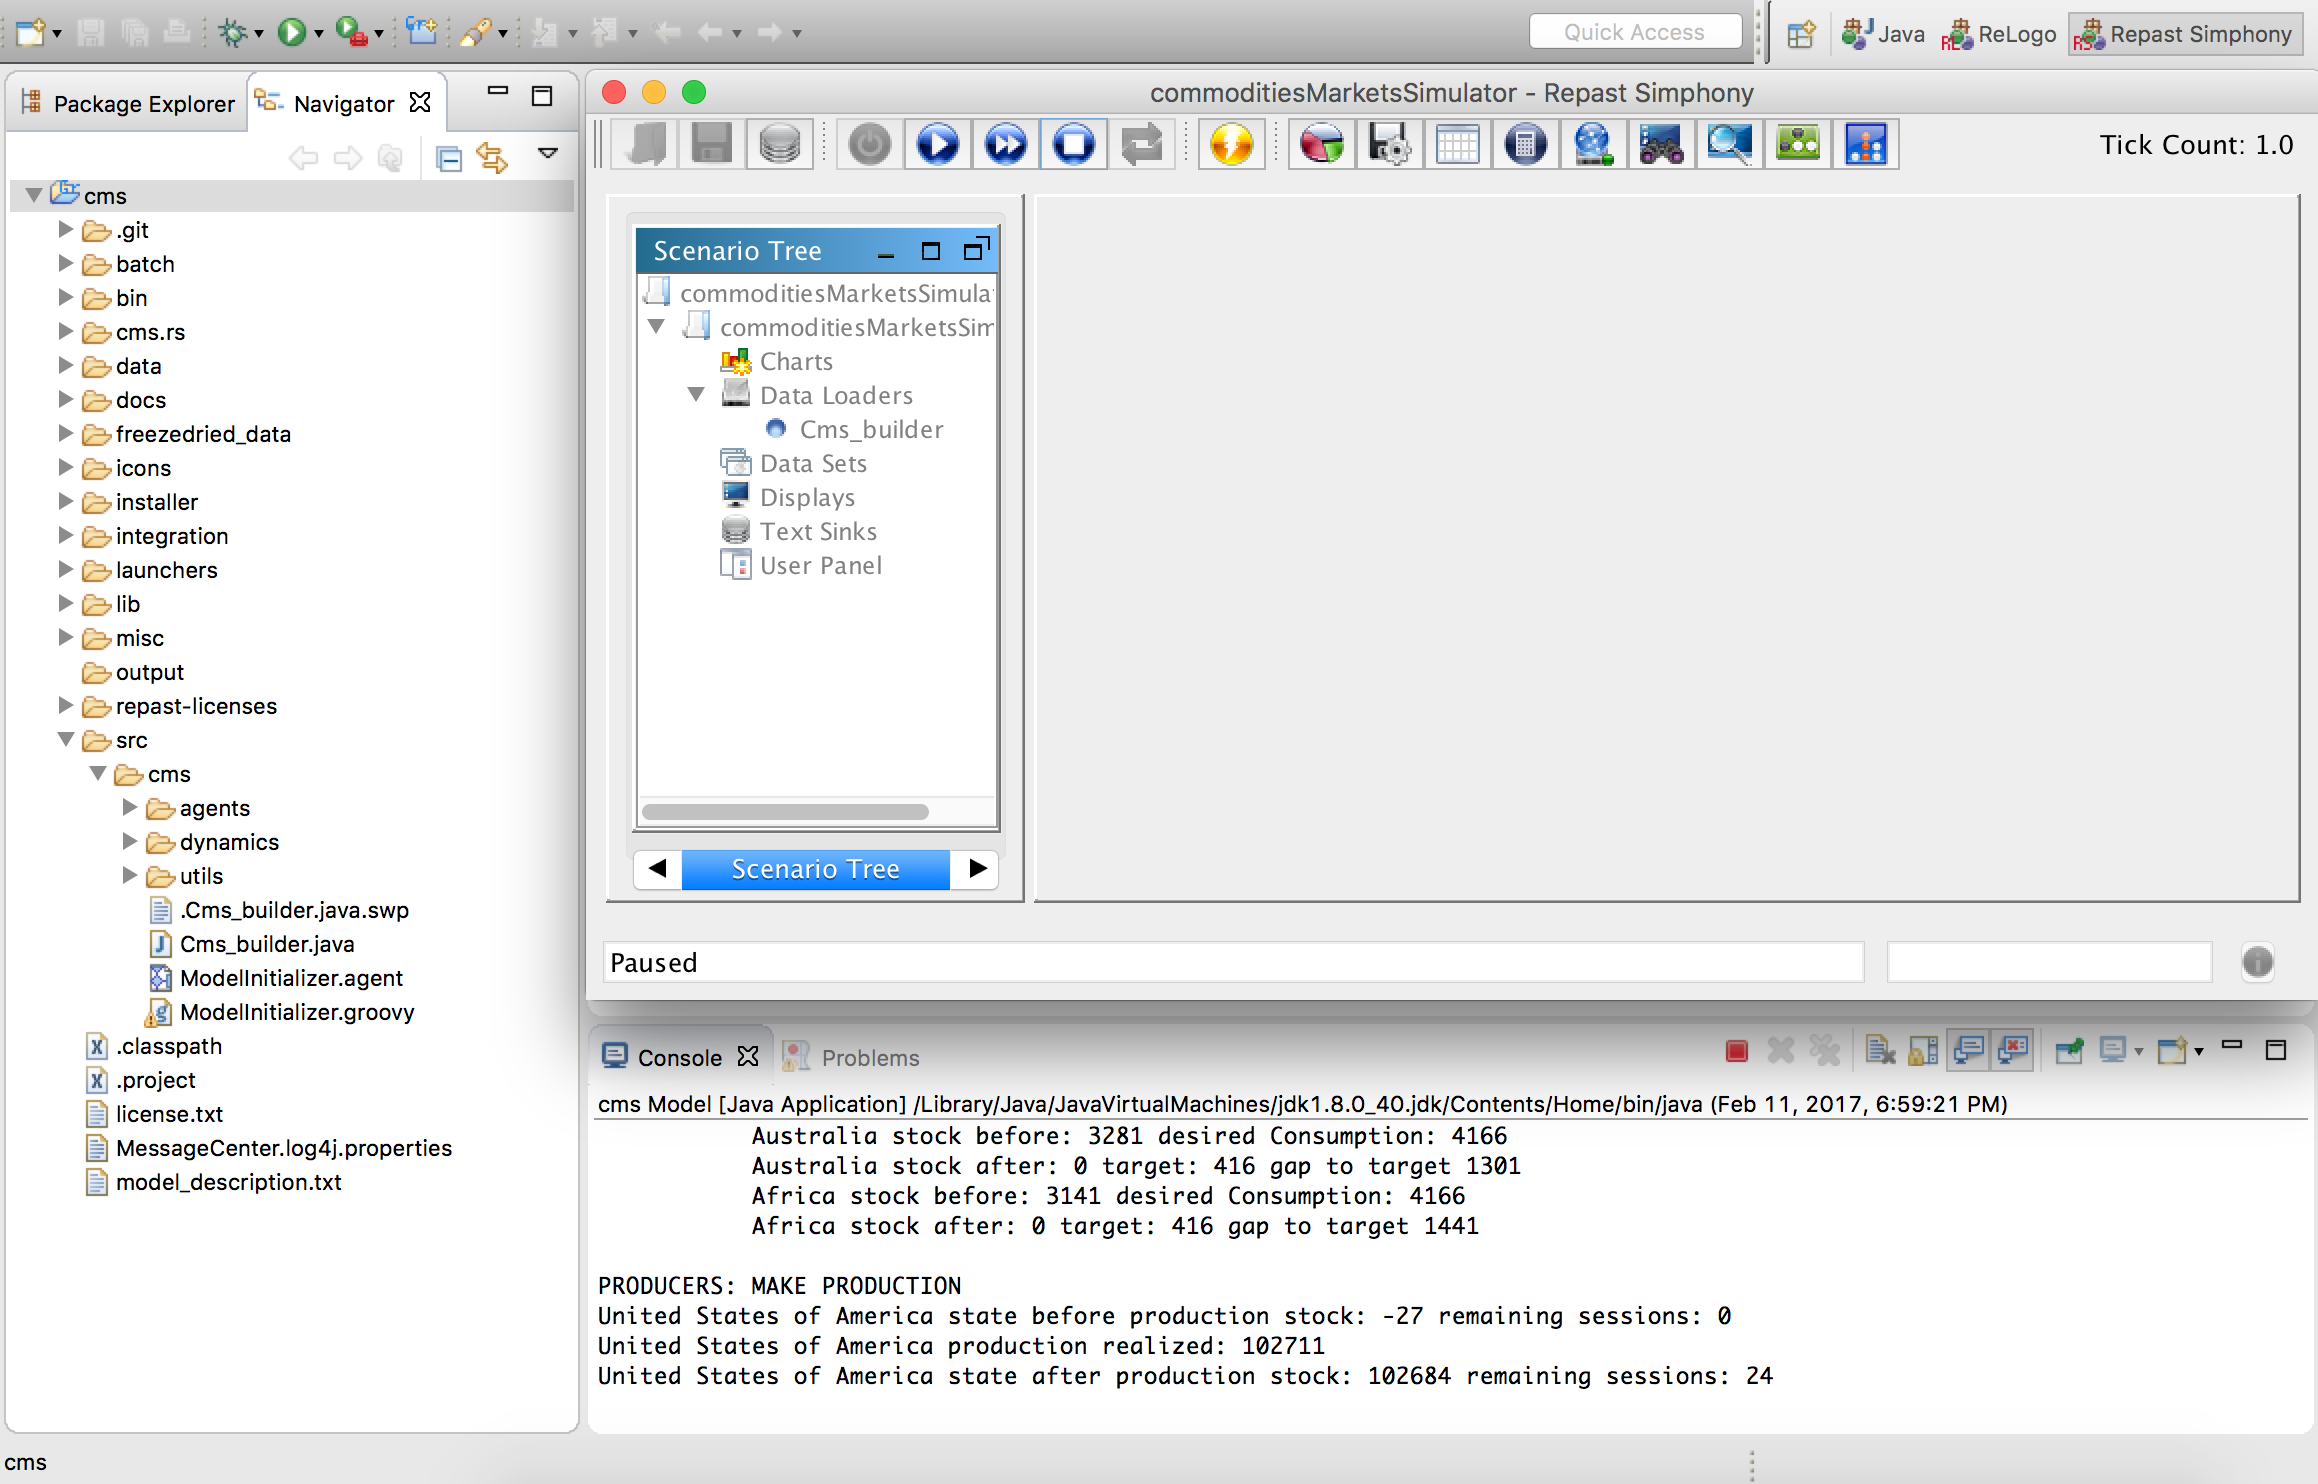
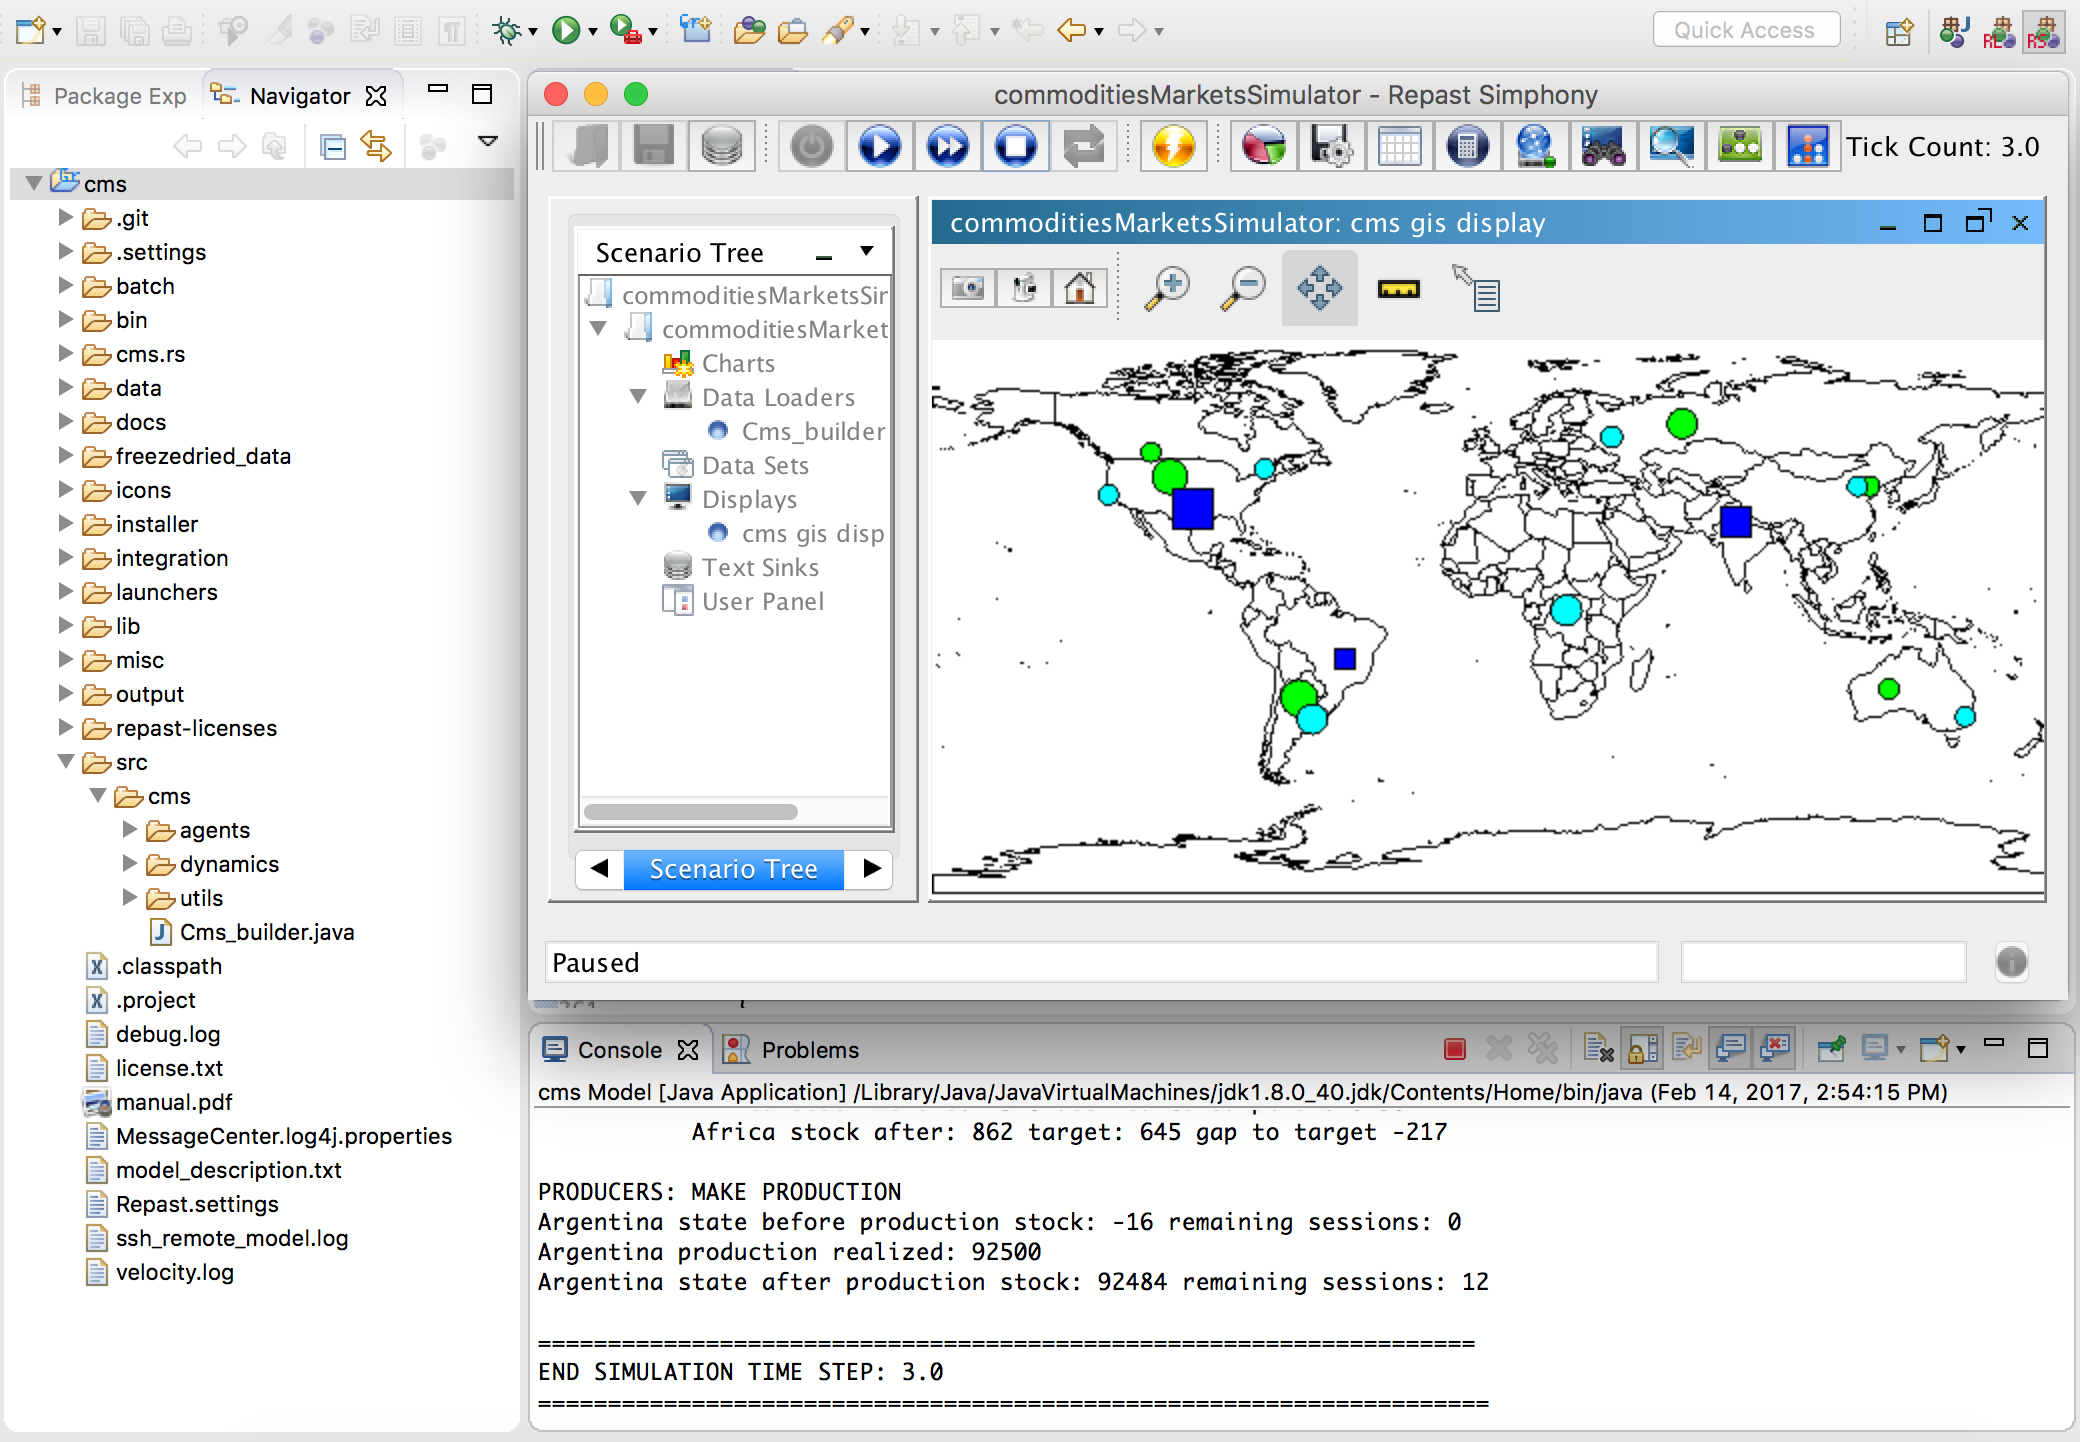
documentation

Changed region(s): [[0.0, 0.0, 1.0, 0.9986], [0.0, 0.9674, 0.0312, 0.9986]]

diff --git a/docs/latexdoc/manual.tex b/docs/latexdoc/manual.tex
@@ -453,13 +453,13 @@ After clicking, a menu opens as shown by the following figure.
 \includegraphics[scale=0.35]{fig_cms_rs_execution2}
 
 \vskip2mm
-The GUI execution is activated by clicking the \verb+cms Model+ item and after few seconds the model window will show up.
+The GUI execution is activated by clicking the \verb+cms Model+ item and after few seconds the model window will show up. Click the \includegraphics[scale=0.4]{fig_home} button, and you should see a well framed world map.
 %, while the BATCH execution can be started by clicking the \verb+Batch cms model+.
 %Check if Context is listed under the Data Loaders item of the scenario tree.
 
 Use the RS GUI window intuitive buttons to interact with the simulation. A more detailed description on how to control the simulation is given at page 24 of the ``Repast Java Getting Started'' document available in RS web site.
 
-Now the model has no runtime monitoring graphical elements, so one can check the progress of the simulation watching at the tick count number in upper right corner of the RS GUI window or looking at the text output in the console panel of Eclipse window as shown in the following figure. 
+Now the model has no dynamic monitoring graphical elements, so one can check the progress of the simulation watching at the tick count number in upper right corner of the RS GUI window or looking at the text output in the console panel of Eclipse window as shown in the following figure. 
 
 \vskip2mm
 \noindent
@@ -561,8 +561,11 @@ As one can understand from headings (first line), each line contains the followi
 This subsection shows how to add graphical elements to the model interface or to make the model able to save data.
 
 \subsubsection{Adding a GIS display}
+The models comes with a gis display showing a world map. We will first delete it and make it again in order to show how the user can configure her/his own display.
 
-Right click on the Display item of the Scenario tree and click on Add display as shown in the following figure
+Right click the \verb+cms gis display+ in the scenario tree and choose delete to remove the display. Now we will build again the display. 
+
+Right click the Display item in the Scenario tree and click on Add display as shown in the following figure
 
 \vskip2mm
 \includegraphics[scale=0.35]{fig_cms_rs_gis1}
@@ -587,7 +590,7 @@ Click on the button highlighted in the next figure to add elements
 \includegraphics[scale=0.35]{fig_cms_rs_gis4b}
 
 We will show hereafter how to add a background showing a geographic zone. First of all, a shapefile of the zone is needed.  
-Shaefiles are often available for downloaded in Internet. Some shapefiles downloaded from \url{http://www.naturalearthdata.com/}\footnote{
+Shapefiles are often available for downloaded in Internet. Some shapefiles downloaded from \url{http://www.naturalearthdata.com/}\footnote{
 	in particular they relate to world maps available at \url{http://www.naturalearthdata.com/downloads/50m-cultural-vectors/} or \url{http://www.naturalearthdata.com/downloads/10m-physical-vectors/}.} are already included in the \verb+data+ folder.
 
 By clicking on the button highlighted in the figure above, a file browser opens. Manage to select your shapefile. In the following figure, a shapefile in the \verb+data+ folder is selected
@@ -608,7 +611,7 @@ By clicking the finish button the display item appears in the scenario tree as s
 
 Save the changes to the scenario tree by clicking the floppy disk image.
 
-Now, clicking the Step Run button (highlighted in red in the following figure), the display will show up after few seconds. If the map is not centered in the windows, click the button showing an home to frame it. The following figure shows the final outcome  
+Now, clicking the Step Run button (highlighted in red in the following figure), the display will show up after few seconds. If the map is not centered in the windows, click \includegraphics[scale=0.4]{fig_home} button to frame it. The following figure shows the final outcome  
 
 \includegraphics[scale=0.35]{fig_cms_rs_gis10}
 
